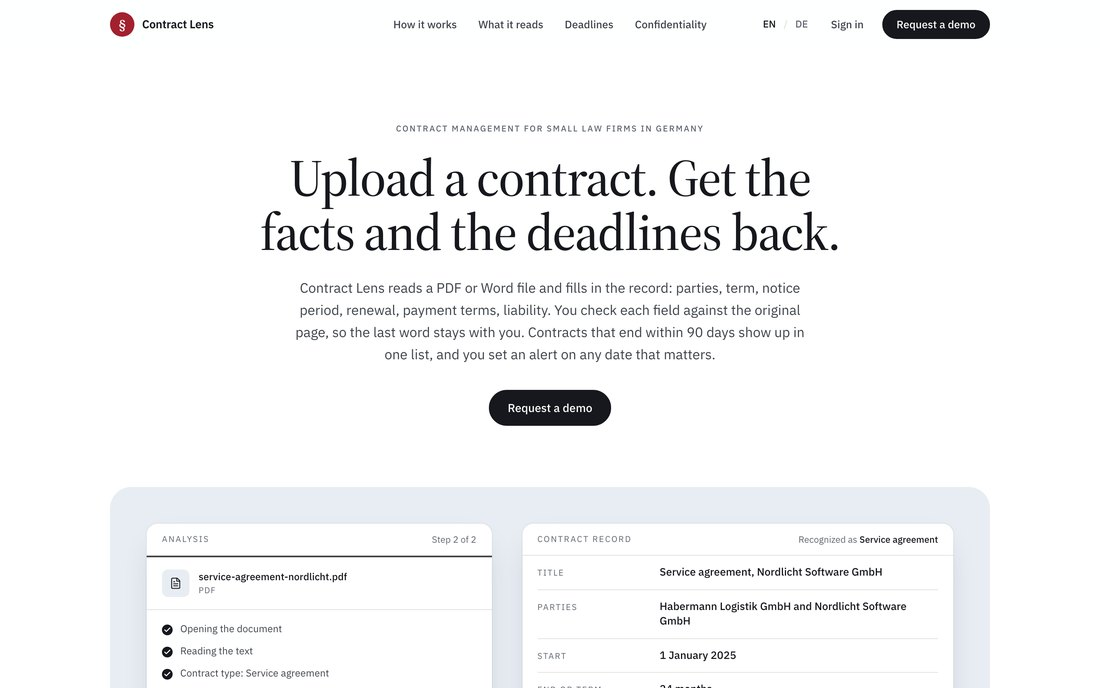
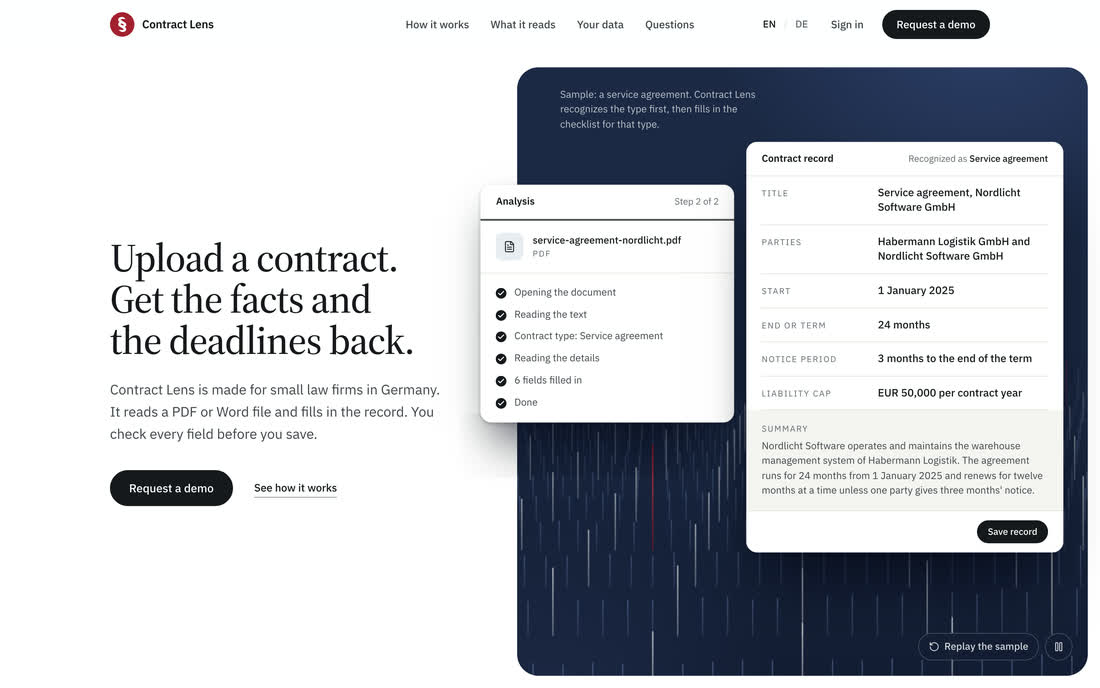
Recapture the Contract Lens screens from the current landing page
The plate still showed the landing page from 2026-09-20. The live site
has changed since: a new menu, and a hero set to the left with the
sample beside it on a dark panel.

Both shots are taken again with Playwright the way the last set was:
1440x900 at 3x for the plate, 390x664 at 3x for phones, in en-US. The
sample was left to play to its end, so the record is filled in. Nothing
was clicked or typed, and the sidecars say so.

The share card picture in assets/og is rebuilt from the same shot. The
2026-09-20 recapture did not include it, so the card showed an older
page than the plate.

The alt text now says the demo sits beside the headline, not below it.

diff --git a/lib/plates.ts b/lib/plates.ts
@@ -42,7 +42,7 @@ const SCREENS: Record<string, Screen> = {
       width: 1170,
       height: 1992,
     },
-    alt: 'The Contract Lens landing page: "Upload a contract. Get the facts and the deadlines back." A demo below reads a sample service agreement into a contract record.',
+    alt: 'The Contract Lens landing page: "Upload a contract. Get the facts and the deadlines back." A demo beside it reads a sample service agreement into a contract record.',
   },
   'multi-agent-trading-desk': {
     src: '/work/multi-agent-trading-desk/screen-810.webp',
